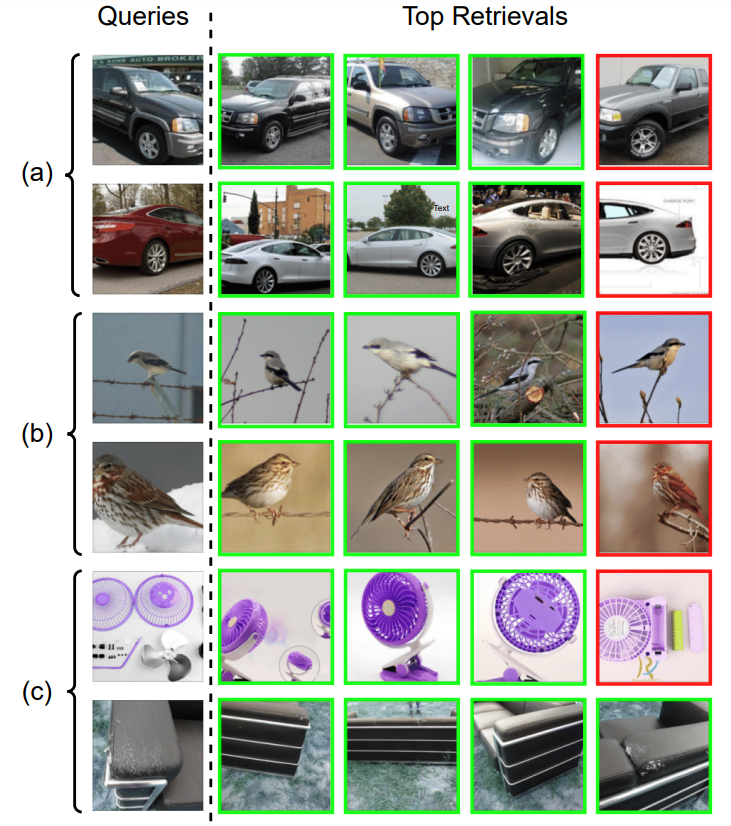
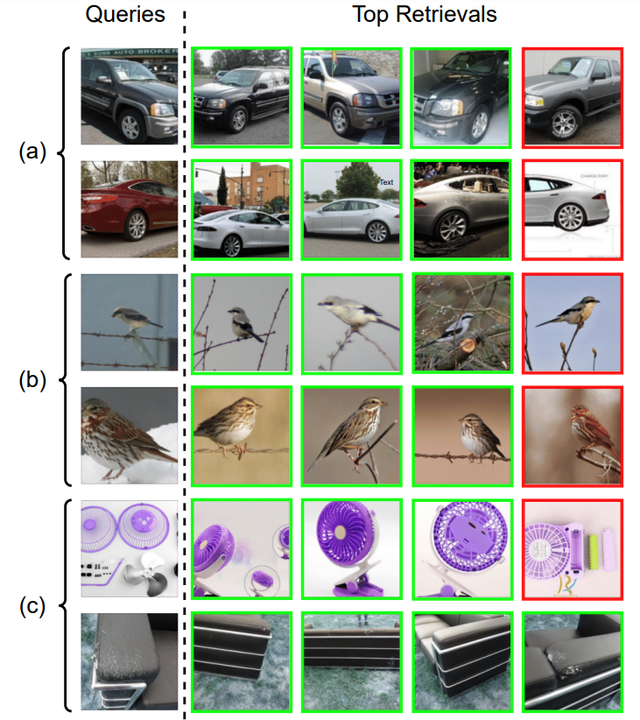
PFML page: accessible animation caption, scientific Figure 2 caption, smaller retrieval figure
- Rewrite the hero animation caption in plain terms for first-time readers
  (embeddings as points, electrostatic attract/repel/decay) with no jargon.
- Expand the Figure 2 caption to convey the mechanism: gradient = net force,
  the decay property and delta margin, and why it gives noise/variation robustness.
- Downsample the zero-shot retrieval figure (859KB -> 542KB) and cap its display
  width so the portrait image no longer dominates the page.

diff --git a/potential_field_DML/index.html b/potential_field_DML/index.html
@@ -916,9 +916,13 @@
             <figure class="fig fig-side">
                 <div class="side-media"><img src="./img/charge_animation_web.gif"
                         alt="Animation of the class potential field for two classes, with the field for the blue class visualized; blue attraction wells pull same-class embeddings together while red regions repel other-class embeddings"></div>
-                <figcaption>A toy problem with embeddings from 2 classes. Similar embeddings move together and
-                    dissimilar ones apart under the influence of our potential field (the field for the blue class is
-                    visualized).</figcaption>
+                <figcaption>Each image is represented as a point (an embedding); shown here are two classes, blue and
+                    red, in a 2-D toy space. Borrowing from electrostatics, PFML has every point create a field that
+                    attracts points of its own class and repels other classes, with the influence weakening over
+                    distance. The coloured surface is the combined field felt by the blue class (blue wells pull blue
+                    points together, red regions push the other class away); following it, blue points gather with nearby
+                    blue neighbours and separate from red, which is how PFML learns a space where similar images sit close
+                    together.</figcaption>
             </figure>
         </div>
     </header>
@@ -961,9 +965,14 @@
             <figure class="fig reveal" style="margin-top:24px;">
                 <img src="./img/field_fig_paper.png" loading="lazy"
                     alt="An example of the class potential fields Psi-1 and Psi-2, created by superposing the fields of individual embeddings of two classes, with arrows denoting the gradient (net force) on samples and proxies">
-                <figcaption>Example class potential fields &Psi;<sub>1</sub> and &Psi;<sub>2</sub> for a 2-class toy
-                    problem, each formed by superposing the fields of individual embeddings. Every embedding is drawn to
-                    the nearest same-class points and pushed away from other classes; arrows show the net force.</figcaption>
+                <figcaption>The same idea for both classes: &Psi;<sub>1</sub> and &Psi;<sub>2</sub> are the combined
+                    fields for the blue and red classes, each obtained by superposing the attraction and repulsion of
+                    every individual point. Arrows are the gradient of the field, i.e. the net force that moves a point.
+                    Because the influence decays with distance, a point is drawn only to its nearest same-class
+                    neighbours (and kept a small margin &delta; from the other class), not to far-away same-class points.
+                    That decay is the key design choice: a distant outlier or a mislabeled image is treated as a
+                    different variety instead of being dragged in, which gives PFML its robustness to large intra-class
+                    variation and label noise.</figcaption>
             </figure>
         </div>
     </section>
@@ -1137,7 +1146,7 @@
             </figure>
 
             <h3 class="sub">Zero-shot retrieval</h3>
-            <figure class="fig" style="margin-top:12px;">
+            <figure class="fig" style="margin-top:12px; max-width:560px; margin-left:auto; margin-right:auto;">
                 <img src="./img/Retrieval_example.png" loading="lazy"
                     alt="Retrieval examples: query images and their nearest neighbours for Cars-196, CUB-200-2011 and SOP, with green borders for correct and red for incorrect retrievals">
                 <figcaption>Example images retrieved by our method for query images from (a) Cars-196, (b) CUB-200-2011